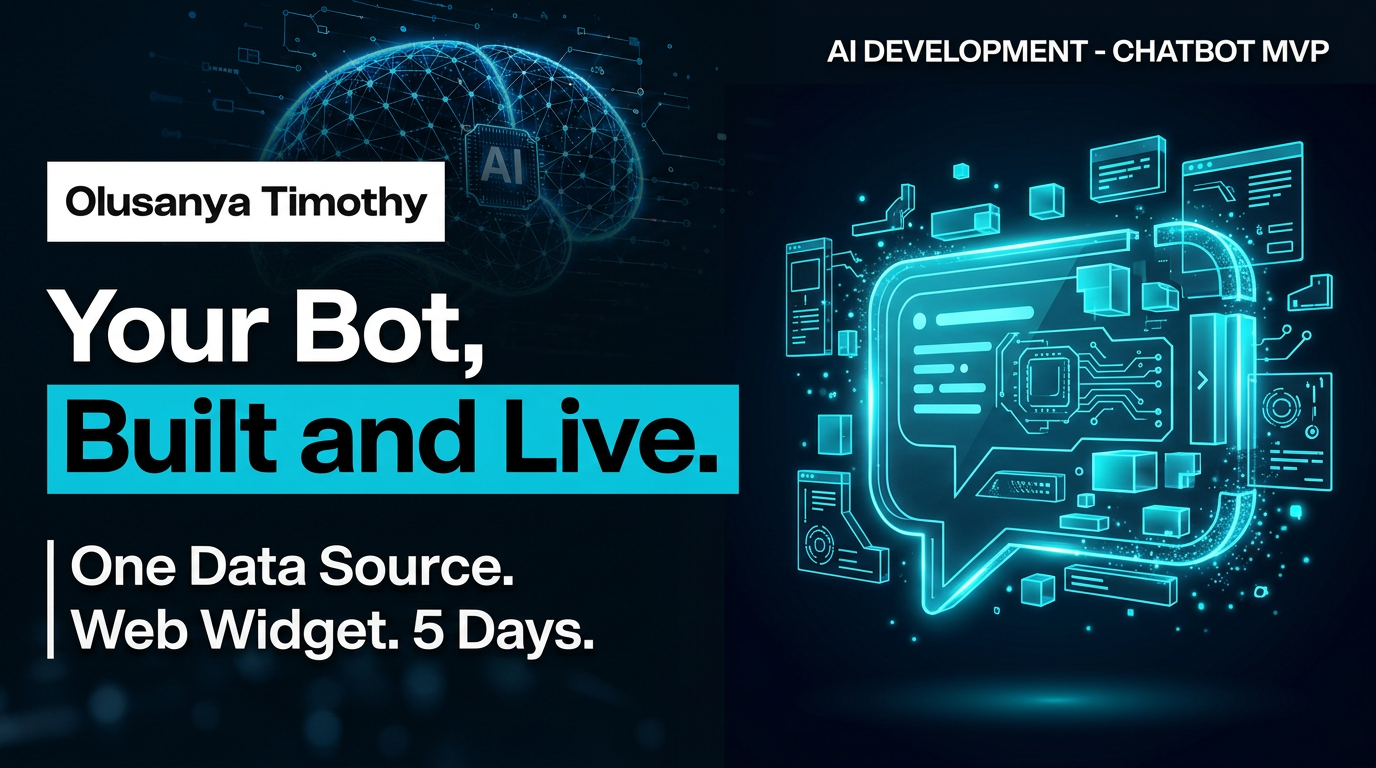
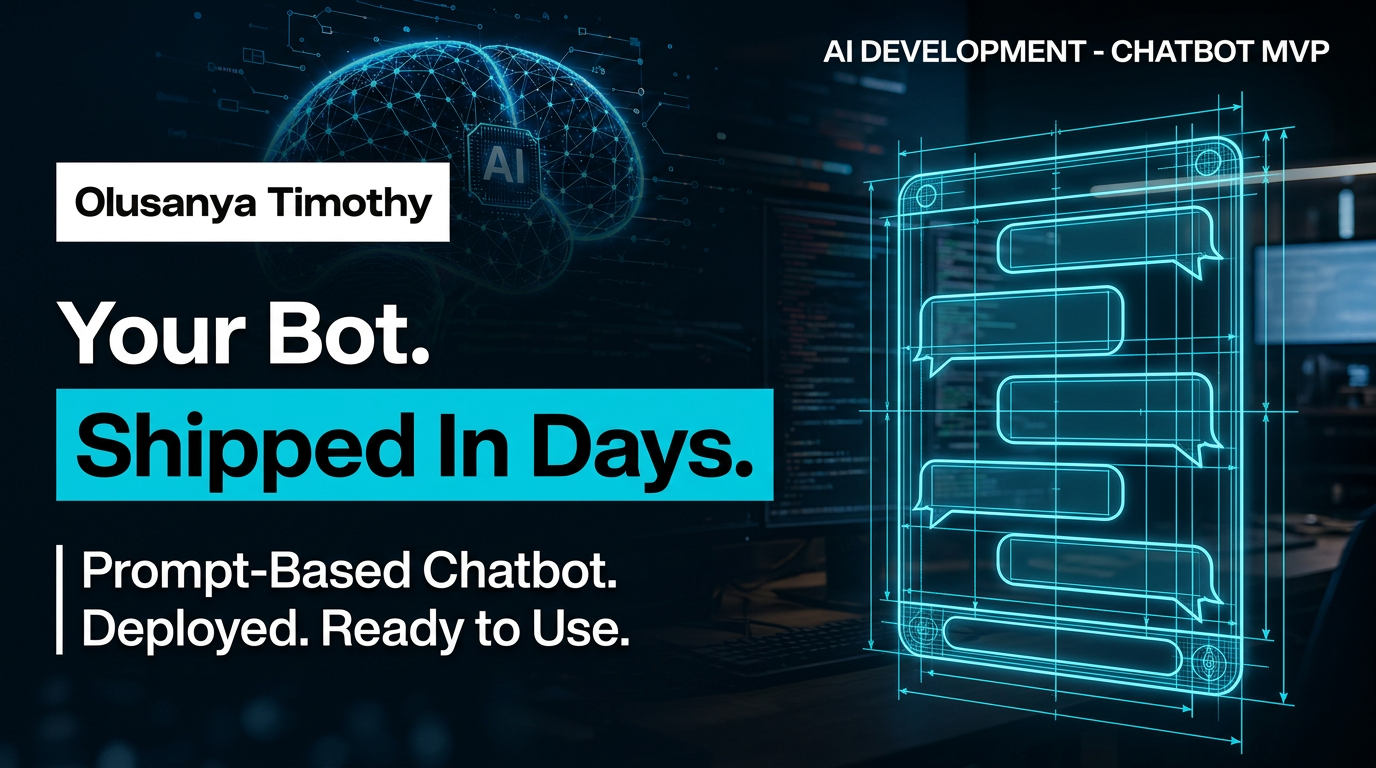
Project 2 (final): AI chatbot/agent/full-stack dev listing, 3 tiers, correct cover images and full catalog copy

diff --git a/linkedin_emphire/UPWORK/project_catalog.md b/linkedin_emphire/UPWORK/project_catalog.md
@@ -107,6 +107,81 @@ Raise Starter to $200-300 across sizes, Standard to $800-1,200, Advanced to $2,0
 
 ---
 
+# PROJECT 2 — AI chatbot / agent / full-stack development (one listing, 3 built-in tiers)
+Project 1 covers the "breaker" half of the identity (testing AI that already exists). Project 2 covers the "builder" half: building the chatbot, agent, or full-stack feature in the first place, using Nigeria LandSecure as the full-stack proof point. Same single-listing, 3-tier mechanic as Project 1.
+
+### Overview step
+**Catalog title (exact, 63/75 chars incl. "You will get…"):**
+```
+You will get an AI chatbot or agent built, tested, and hardened
+```
+**Category:** Development & IT > AI & Machine Learning > Chatbots (confirmed real Upwork subcategory; if the live wizard suggests something narrower or broader when you type this title, compare against this before picking)
+**Search tags (5, lowercase):** ai chatbot development, ai agent development, rag development, full stack development, llm integration
+**Project attributes:** this category shows different attribute facets than Cybersecurity did. Paste me whatever the live wizard shows once you pick this category and I'll tell you exactly which to select, same as we did for Project 1.
+
+### Pricing step — 3 tiers, priced by company size
+
+| Tier | Custom title (≤30 chars) | Custom description (≤80 chars) | Delivery days | Small co. | Medium co. | Large co. |
+|---|---|---|---|---|---|---|
+| Starter | `Chatbot MVP` | `A working prompt-based chatbot for FAQs or support, deployed and ready to use` | 5 | $300 | $400 | $600 |
+| Standard | `RAG / Agent Build` | `A chatbot or agent connected to your data via RAG, plus tool/API integrations` | 10 | $900 | $1,200 | $1,800 |
+| Advanced | `Full-Stack AI Feature` | `A complete full-stack AI feature, backend, frontend, database, red-team pass` | 21 | $2,500 | $3,500 | $5,000 |
+
+**Add-ons (optional):**
+- Extra integration (a CRM, calendar, payment system, etc. beyond what's scoped): +$150
+- Rush delivery (cuts the stated timeline by roughly a third): +$200
+- 30 days of post-launch support and bug fixes: +$250
+
+### Gallery step
+**Project Images:**
+- `gallery/catalog2_tier1_chatbotmvp.png` (Starter) — glowing blueprint/wireframe of a chat interface taking shape
+- `gallery/catalog2_tier2_ragagent.png` (Standard) — a central AI agent node connected to database, document, and calendar icons
+- `gallery/catalog2_tier3_fullstack.png` (Advanced) — three stacked layers (frontend/backend/database) with a shield and checkmark on top, signaling the built-in red team pass
+
+**Sample Documents:** none built yet for this project. If useful, I can build a short PDF one-pager on the Nigeria LandSecure architecture and delivery approach, the same way the findings report PDF backs Project 1, say the word.
+
+### Process step
+**Requirements (add all 4):**
+1. "A clear description of what you want the chatbot, agent, or feature to do for your users, and who will be using it."
+2. "Access to any existing systems, databases, or documents you want the AI feature connected to, or confirmation it's a clean build."
+3. "Your preferred AI provider (OpenAI, Anthropic, etc.) if you have one, otherwise I'll recommend one based on your needs and budget."
+4. "If ordering the Full-Stack AI Feature: your current tech stack (if any), hosting preferences, and any compliance requirements to design around."
+
+**Steps (add all 4, title then description):**
+1. **Scope the build** — I confirm what you need, which tier fits, and the exact features, integrations, and data sources involved before any code is written.
+2. **Build the feature** — I build the chatbot, agent, or full-stack feature against the agreed scope, with regular check-ins so there are no surprises at delivery.
+3. **Red team it (Advanced tier)** — Before handoff, I run the same red team testing I sell as a standalone service against your new feature and fix anything it finds.
+4. **Deploy and hand off** — I deploy the feature, hand off the code and documentation, and you own everything outright with no ongoing license.
+
+### Description step
+**Project summary (939/1,200 chars):**
+```
+I build the AI features other developers are afraid to ship, and I'm also the engineer who red teams them, so what you get is already hardened against the obvious failure modes before it reaches your users.
+
+Pick the depth you need. A straightforward chatbot for FAQs or support, live in days. A chatbot or agent connected to your real data through RAG, plus the tool calls and integrations that make it actually useful, not just a demo. Or a complete full-stack AI feature, backend, frontend, and database, built the same way I built Nigeria LandSecure: with the real engineering problems (concurrency, permissions, data integrity) solved, not glossed over.
+
+Every build on the top tier ships with a red team pass before handoff, the same testing I sell as a standalone service, so you're not finding your chatbot's first prompt injection hole in production.
+
+Clear scope, a fixed price, and code you own outright when the project closes.
+```
+
+**FAQ (5):**
+1. **Q: Do I own the code when the project is done?**
+   A: Yes, full source code and any custom assets are yours outright at project close, no ongoing license or lock-in.
+2. **Q: What AI models or providers do you work with?**
+   A: OpenAI, Anthropic, and most major LLM APIs, plus open-source models if you have infrastructure preferences or data residency needs.
+3. **Q: Can you work with my existing codebase instead of starting from scratch?**
+   A: Yes, share your repo and current stack during scoping and I'll confirm whether the integration fits the Starter, Standard, or Advanced tier.
+4. **Q: What makes this different from a typical chatbot developer?**
+   A: The Advanced tier includes a red team pass before handoff, the same testing I sell as a standalone service, so security isn't an afterthought bolted on later.
+5. **Q: What do you need from me to start?**
+   A: Access to any existing systems or data you want connected, your preferred AI provider if you have one, and a clear description of what the feature should do for your users.
+
+### Review step
+Confirm title, category, attributes, all three tiers' pricing/delivery/custom copy, gallery images, and the description/FAQ above before publishing. Same rule as Project 1: double-check the title here, it locks the URL on first publish.
+
+---
+
 ## APPENDIX — original 3-separate-listing drafts (kept for reference, not the recommended structure)
 Everything below was drafted before confirming Upwork's real 3-tier-in-one-listing mechanic above. The content (descriptions, FAQs, requirements, process steps) is still accurate and was reused in the single-listing version above; keep this section only if you ever want to split these into standalone listings later (for example, once Starter alone has enough reviews to stand on its own).
 
@@ -292,87 +367,3 @@ Your findings never leave our workspace. Nothing about your system, prompts, or 
 
 ## AFTER 5 REVIEWS
 Raise Tier 1 to $200-250, Tier 2 to $800-1,000, Tier 3 to $2,000+, and stop selling Tier 1 as the default entry point in proposals — lead with Tier 2.
-
----
-
-# PROJECT 2 — AI Development (the "builder" half, complements Project 1's "breaker" half)
-One listing, 3 built-in tiers, same mechanic as Project 1. This is the counterpart service: instead of testing AI features, this one builds them, and the Advanced tier deliberately crosses over into Project 1's red-teaming to sell the dual identity (engineer who builds AND independently verifies) in a single order.
-
-### Overview step
-**Catalog title (exact, 69/75 chars incl. "You will get…"):**
-```
-You will get a full-stack AI chatbot or web feature, built and tested
-```
-**Category:** Development & IT > AI & Machine Learning > Chatbots (best live match; if Upwork suggests "Full Stack Development" instead under Web, Mobile & Software Dev, compare both and pick whichever shows a closer live suggestion list to this title, same approach as Project 1)
-**Search tags (5, lowercase):** ai chatbot development, full stack development, next.js, postgresql, ai integration
-**Project attributes:** unknown until the category is locked in live, paste me what the attribute panel shows (same as we did for Project 1's Cybersecurity Expertise/Technology Type/Regulation fields) and I'll fill it in.
-
-### Pricing step — 3 tiers, priced by company size
-| Tier | Custom title (≤30 chars) | Custom description (≤80 chars) | Delivery days | Small co. | Medium co. | Large co. |
-|---|---|---|---|---|---|---|
-| Starter | `AI Chatbot MVP` | `A working chatbot connected to one data source, with a widget ready to embed` | 5 | $400 | $550 | $750 |
-| Standard | `Full-Stack AI Feature Build` | `Frontend, backend, database, and one AI capability, built as a complete feature` | 14 | $1,200 | $1,600 | $2,200 |
-| Advanced | `Build Plus Red Team` | `Everything in Standard, then I red team my own build before you ship it` | 21 | $2,000 | $2,800 | $4,000 |
-
-**Add-ons (optional):**
-- Extra integration channel beyond the one included (WhatsApp, Slack, mobile app, etc.): +$150
-- Rush delivery (cuts the stated timeline by roughly 30%): +$150
-- 30 days of post-launch bug-fix support: +$200
-
-### Gallery step
-**Project Images** (same brand system as Project 1, backgrounds tailored to building rather than testing):
-- `gallery/catalog2_tier1_chatbotmvp.png` (Starter) — a chat-widget UI being assembled from glowing circuit blocks
-- `gallery/catalog2_tier2_fullstackbuild.png` (Standard) — three architecture layers (frontend/backend/database) wired together
-- `gallery/catalog2_tier3_buildredteam.png` (Advanced) — a structure being built on one side, enclosed in a checked shield on the other
-
-**Sample Documents:** reuse `gallery/sample_findings_report.pdf` if Upwork allows attaching the same document to a second listing (shows the self-testing process the Advanced tier includes). If not, this listing's strongest proof is the portfolio: point to `UPWORK/PORTFOLIO/05_fullstack-landsecure.md` (Nigeria LandSecure) in the project description or your profile portfolio, not a generated graphic.
-
-### Process step
-**Requirements (add all 5):**
-1. "A description of what the chatbot or feature should do, and any specific user flows or screens you already have in mind."
-2. "Your data source(s): docs, FAQs, a database, or an existing API the AI feature should pull from."
-3. "Design preferences or existing brand guidelines/mockups, if you have them. If not, I will design a clean, functional default."
-4. "Hosting and infrastructure details: where this will live (your own server, Vercel, AWS, etc.), or confirm you'd like me to recommend one."
-5. "If integrating into an existing codebase: repo access or a technical contact who can grant it."
-
-**Steps (add all 5):**
-1. **Scope and confirm requirements** — I review your answers, confirm the exact feature scope, and flag anything that needs clarifying before coding starts.
-2. **Build the feature** — I build the frontend, backend, database, and AI integration according to the confirmed scope, with progress updates along the way.
-3. **Test and fix** — I test the feature end-to-end, including, on the Advanced tier, running my own red-team pass on it before handoff.
-4. **Deliver and walk through** — You get the finished feature, deployed or ready to deploy, with a short walkthrough of how it works and how to maintain it.
-5. **Post-launch support window** — Any quick bugs found in the agreed support window get fixed at no extra charge.
-
-### Description step
-**Project summary (1,137/1,200 chars):**
-```
-I build full-stack AI features, chatbots, RAG systems, and the web apps around them, then test what I build the same way I test everything else: by trying to break it before your users do.
-
-My background is full-stack engineering (Go, Next.js, PostgreSQL) plus hands-on AI integration work. On Nigeria LandSecure, a digital land-records platform, I built the document storage and verification layer, including the concurrency handling that kept simultaneous verification requests from corrupting state, real production engineering, not a tutorial project.
-
-Pick the depth that fits what you need. A chatbot MVP gets you a working, embeddable bot connected to one data source. A full-stack feature build gets you the complete frontend, backend, database, and AI integration for a real product feature. The top tier adds something most developers don't offer: I red team my own build using the same process from my AI security testing catalog, so you get a findings report and fixes before you ever ship, not after.
-
-Your code and data stay yours. Nothing about your project is shared, published, or reused without your written permission.
-```
-
-**FAQ (5):**
-1. **Q: What if I don't have a data source ready yet?**
-   A: I can scope the MVP around a simple FAQ list or document set you provide, there's no need for a finished knowledge base before we start.
-2. **Q: Can you integrate into my existing codebase, or does this have to be a new build?**
-   A: Both work. Tell me which one in the requirements and I'll scope accordingly, a fresh build or a feature added to what you already have.
-3. **Q: What does the built-in red team pass on the top tier actually check?**
-   A: The same four layers from my AI security catalog: prompt injection, RAG poisoning, agent/tool-call abuse, and policy bypass, scoped to whatever AI capability is in your build.
-4. **Q: Do I own the code after delivery?**
-   A: Yes. Full ownership transfers to you on delivery. Nothing from your project is reused elsewhere without your written permission.
-5. **Q: What tech stack do you use?**
-   A: Go or Node for the backend, Next.js for the frontend, and PostgreSQL for the database by default, happy to match your existing stack if you already have one.
-
-### Review step
-Confirm title, category, attributes, all three tiers' pricing/delivery/custom copy, gallery images, and the description/FAQ match the above before publishing.
-
-## WHY PROJECT 2 WORKS WITH PROJECT 1
-- Project 1 sells testing; Project 2 sells building. Together they cover both halves of the "software engineer AND AI red teamer" identity from the profile.
-- Advanced tier of Project 2 cross-sells Project 1's methodology without requiring a second purchase, the red-team pass is bundled in, which demonstrates the value of Project 1 to a buyer who might not have known to ask for it.
-- A buyer who orders Project 2 Advanced and is happy with the self-testing is a natural upsell for ongoing Project 1 engagements on future features.
-
-## AFTER 5 REVIEWS (Project 2)
-Raise Starter to $500-700, Standard to $1,600-2,200, Advanced to $2,800-4,500+, same logic as Project 1: price goes up once JSS and reviews are established, not before.
